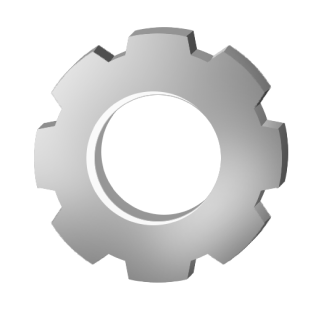
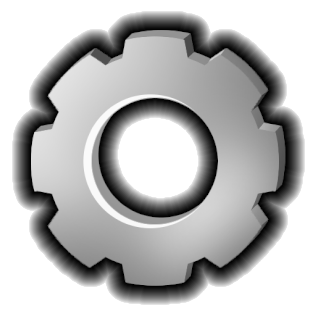
Réorganisation du chargement des ressources. Fix du shader d'image Ajout d'un affichage sur le temps de chargement de certaines tâches

Changed region(s): [[0.0285, 0.0285, 0.9684, 0.9684], [0.2563, 0.2848, 0.712, 0.7405]]

diff --git a/src/Game/Game.cpp b/src/Game/Game.cpp
@@ -12,6 +12,8 @@
 
 using namespace glm;
 using namespace std;
+using std::cerr;
+using std::endl;
 
 vector<Button*> buttons;
 vector<Image*> images;
@@ -85,47 +87,23 @@ bool Game::init()
 bool Game::loadRequieredResources()
 {
 	cerr << "Loading resources..." << endl;
-	if(!Resource::loadTexture("assets/white_texture.png", Textures::whiteTexture))
-	{
-		cerr << "Failed to load white texture" << endl;
-		glfwTerminate();
-		return false;
+	float time = glfwGetTime();
+	std::vector<string> assets = {
+		"white_texture.png", "black_texture.png", "home_background.png",
+		"space_background.png", "bomberboy_1.png", "bomberboy_2.png"
+	};
+	std::vector<Texture*> textures = {
+		&Textures::whiteTexture, &Textures::blackTexture, &Textures::homeBackground,
+		&Textures::spaceBackground, &Textures::bomberboy1, &Textures::bomberboy2
+	};
+	for (int i = 0; i < assets.size(); i++) {
+		if (!Resource::loadTexture(("assets/"+assets[i]).c_str(), *textures[i])) {
+			cerr << "Failed to load " << assets[i] << endl;
+			glfwTerminate();
+			return false;
+		}
 	}
-
-	if(!Resource::loadTexture("assets/black_texture.png", Textures::blackTexture))
-	{
-		cerr << "Failed to load black texture" << endl;
-		glfwTerminate();
-        return false;
-	}
-
-	if(!Resource::loadTexture("assets/home-background.png", Textures::homeBackground))
-	{
-		cerr << "Failed to load Textures::homeBackground" << endl;
-		glfwTerminate();
-		return false;
-	}
-
-	if(!Resource::loadTexture("assets/space-background.png", Textures::spaceBackground))
-	{
-		cerr << "Failed to load Textures::spaceBackground" << endl;
-		glfwTerminate();
-		return false;
-	}
-
-	if(!Resource::loadTexture("assets/singleplayer-layer.png", Textures::singleplayerLayer))
-	{
-		cerr << "Failed to load Textures::singleplayerLayer" << endl;
-		glfwTerminate();
-		return false;
-	}
-
-	if(!Resource::loadTexture("assets/options-layer.png", Textures::optionsLayer))
-	{
-		cerr << "Failed to load Textures::optionsLayer" << endl;
-		glfwTerminate();
-		return false;
-	}
+	cerr << "Resources loaded in " << (glfwGetTime() - time) * 1000 << "ms" << endl;
 
     //Load BasicShader
 	basicShader = new Shader("shader/vertex.glsl", "shader/fragment.glsl");
@@ -165,7 +143,7 @@ void Game::setState(GameState state)
 	 * @brief Load the main menu
 	 */
 	case GameState::MAIN_MENU: {
-		cerr << "Loading main menu..." << endl;
+		cerr << "Loading main menu..." << endl; float time = glfwGetTime();
 		if (m_gameState == GameState::GAME) {
 			// Delete game content
 			delete map;
@@ -195,14 +173,14 @@ void Game::setState(GameState state)
 		/* Load Images */
 		images.push_back(new Image(mainWindow, vec2(0, 0), vec2(0.5f, 0.5f), vec2(WINDOW_W), &Textures::homeBackground));
 
-		cerr << "Loaded main menu" << endl;
+		cerr << "Loaded main menu in " << (glfwGetTime() - time) * 1000 << "ms" << endl;
 	} break;
 
 	/**
 	 * @brief Load the main menu
 	 */
 	case GameState::SINGLEPLAYER: {
-		cerr << "Loading singleplayer menu..." << endl;
+		cerr << "Loading singleplayer menu..." << endl; float time = glfwGetTime();
 		/* Load Buttons */
 		buttons.push_back(new Button(mainWindow, vec2(-122.5f, 50.0f), vec2(1.0f, 0.0f), vec2(220, 75), (char *)"assets/bluetton.png", vec3(1.0f), vec3(0.75f, 0.75f, 0.5f), vec3(0.5f)));
 		buttons[0]->setLabel(Label(mainWindow, vec2(-122.5f, 50.0f), vec2(1.0f, 0.0f), "Launch Game", 24, (char *)"assets/fonts/bomberman.ttf", ALIGN_CENTER | ALIGN_MIDDLE));
@@ -219,17 +197,17 @@ void Game::setState(GameState state)
 		});
 
 		/* Load Images */
-		images.push_back(new Image(mainWindow, vec2(0, 0), vec2(0.5f, 0.5f), vec2(WINDOW_W), &Textures::singleplayerLayer));
+		images.push_back(new Image(mainWindow, vec2(0, 0), vec2(0.0f, 0.5f), vec2(WINDOW_W/4), &Textures::bomberboy1));
 		images.push_back(new Image(mainWindow, vec2(0, 0), vec2(0.5f, 0.5f), vec2(WINDOW_W), &Textures::spaceBackground));
 
-		cerr << "Loaded singleplayer menu" << endl;
+		cerr << "Loaded singleplayer menu in " << (glfwGetTime() - time) * 1000 << "ms" << endl;
 	} break;
 	
 	/**
 	 * @brief Launch the game
 	 */
 	case GameState::GAME: {
-		cerr << "Loading game..." << endl;
+		cerr << "Loading game..." << endl; float time = glfwGetTime();
 		/* Load Buttons */
 		buttons.push_back(new Button(mainWindow, vec2(162.5f, 50.0f), vec2(0.0f, 0.0f), vec2(300, 75), (char *)"assets/button.png", vec3(1.0f), vec3(0.75f, 0.75f, 0.5f), vec3(0.5f)));
 		buttons[0]->setLabel(Label(mainWindow, vec2(162.5f, 50.0f), vec2(0.0f, 0.0f), "Exit to main menu", 24, (char *)"assets/fonts/bomberman.ttf", ALIGN_CENTER | ALIGN_MIDDLE));
@@ -254,7 +232,7 @@ void Game::setState(GameState state)
 		mainCamera->getTransform().setPosition(vec3(-6.0f, -12.0f, -16.0f));
 		mainCamera->getTransform().setRotation(vec3(0.90f, 0.0f, 0.0f));
 
-		cerr << "Loaded game" << endl;
+		cerr << "Loaded game in " << (glfwGetTime() - time) * 1000 << "ms" << endl;
 	} break;
 	}
 

diff --git a/include/Engine/Texture.hpp b/include/Engine/Texture.hpp
@@ -11,6 +11,6 @@ namespace Textures {
     static Texture blackTexture;
 	static Texture homeBackground;
 	static Texture spaceBackground;
-	static Texture singleplayerLayer;
-	static Texture optionsLayer;
+	static Texture bomberboy1;
+	static Texture bomberboy2;
 }
